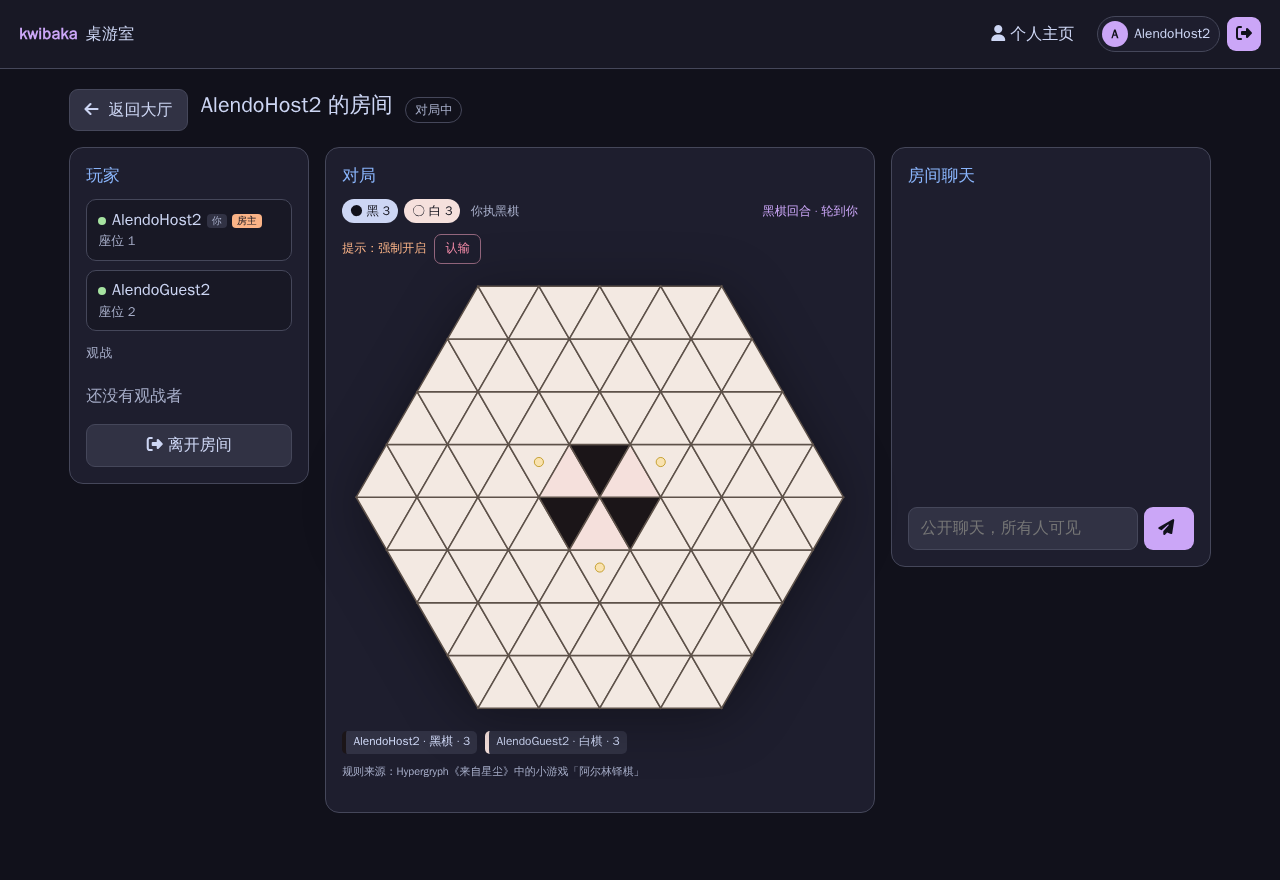
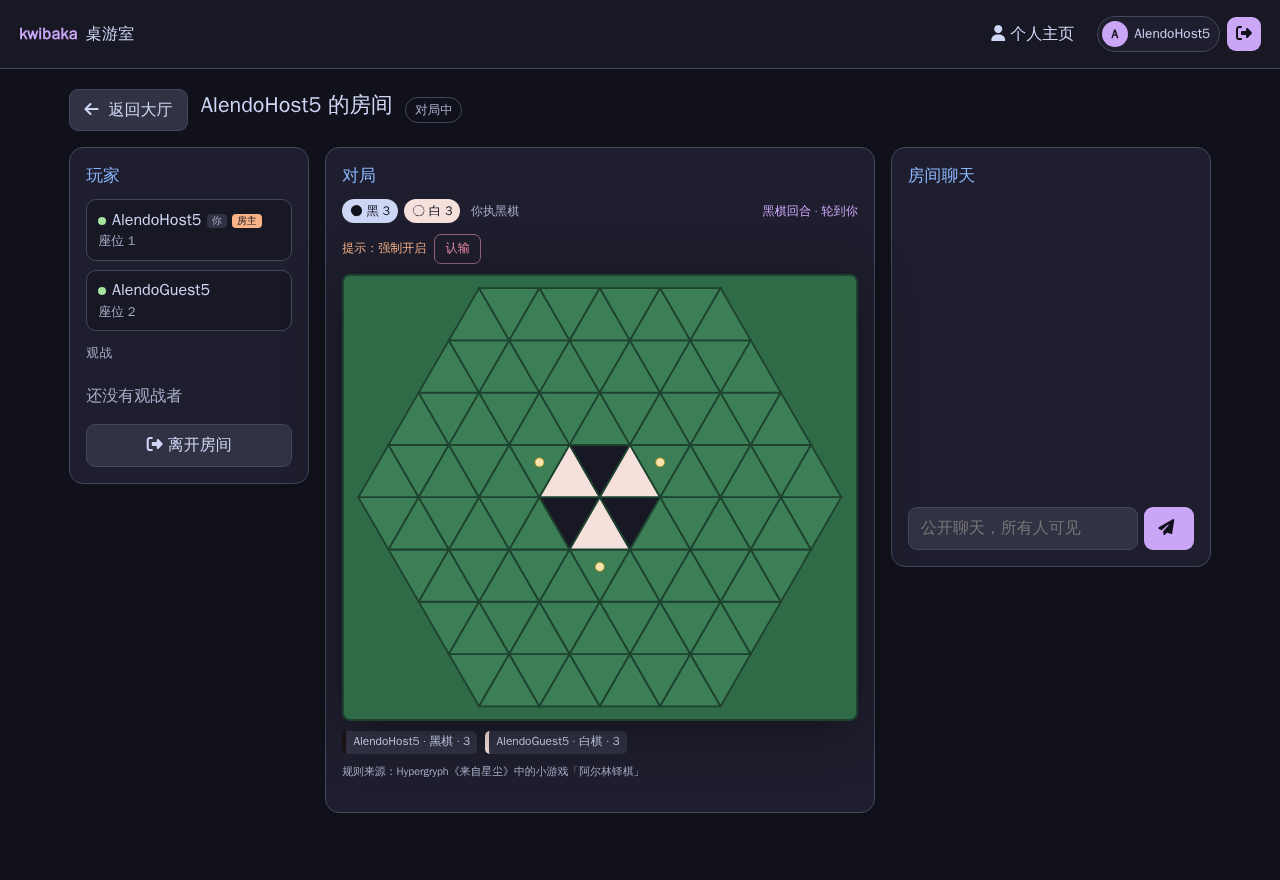
fix: correct comet setup and intersection-based gomoku board

Changed region(s): [[0.25, 0.3068, 0.6875, 0.8284]]

diff --git a/web/style.css b/web/style.css
@@ -1570,13 +1570,16 @@ button.alendo-button {
   width: min(100%, 560px);
   max-height: 62vh;
   margin: 0 auto;
+  background: #2f6b46;
+  border: 2px solid #1d4330;
+  border-radius: 8px;
   filter: drop-shadow(0 8px 28px rgb(0 0 0 / 35%));
 }
 
 .alendo-cell {
-  fill: #f3e9e2;
-  stroke: #5d5149;
-  stroke-width: 0.025;
+  fill: #3c7f56;
+  stroke: #1d4330;
+  stroke-width: 0.03;
   cursor: default;
   transition: fill 120ms ease;
 }
@@ -1586,11 +1589,11 @@ button.alendo-button {
 }
 
 .alendo-cell.playable:hover {
-  fill: #f9e2af;
+  fill: #478f62;
 }
 
 .alendo-cell.black {
-  fill: #1b1518;
+  fill: #181825;
 }
 
 .alendo-cell.white {
@@ -1698,88 +1701,83 @@ button.gomoku-button {
 }
 
 .gomoku-board {
-  --gomoku-size: 11;
-  display: grid;
-  grid-template-columns: repeat(var(--gomoku-size), minmax(0, 1fr));
+  display: block;
   width: min(100%, 560px);
-  aspect-ratio: 1;
+  max-height: 62vh;
   margin: 0 auto;
-  overflow: hidden;
   background: #d9b96e;
   border: 3px solid #8b6430;
   border-radius: 4px;
   box-shadow: 0 8px 28px rgb(0 0 0 / 35%);
 }
 
-.gomoku-board.size-11 {
-  --gomoku-size: 11;
+.gomoku-bg {
+  fill: #e4c77f;
+  stroke: #8b6430;
+  stroke-width: 0.03;
 }
 
-.gomoku-board.size-15 {
-  --gomoku-size: 15;
+.gomoku-grid {
+  stroke: #8b6430;
+  stroke-width: 0.025;
 }
 
-button.gomoku-cell {
-  position: relative;
-  display: flex;
-  align-items: center;
-  justify-content: center;
-  width: 100%;
-  height: 100%;
-  padding: 0;
-  background: #e4c77f;
-  border: 1px solid rgb(104 73 31 / 55%);
-  border-radius: 0;
+.gomoku-star {
+  fill: #6e4b23;
+  opacity: 0.85;
+}
+
+.gomoku-cell {
+  outline: none;
+}
+
+.gomoku-hit {
+  fill: transparent;
+  pointer-events: none;
+}
+
+.gomoku-cell.playable .gomoku-hit {
+  pointer-events: all;
   cursor: pointer;
 }
 
-button.gomoku-cell:hover:not(:disabled) {
-  background: #f0d997;
+.gomoku-cell.playable:hover .gomoku-hit {
+  fill: rgb(255 255 255 / 18%);
 }
 
-button.gomoku-cell:disabled {
-  cursor: default;
-  opacity: 1;
+.gomoku-cell:focus .gomoku-hit {
+  fill: rgb(249 226 175 / 22%);
+  stroke: #f9e2af;
+  stroke-width: 0.04;
 }
 
 .gomoku-stone {
-  width: 82%;
-  height: 82%;
-  border-radius: 50%;
-  box-shadow: 0 2px 4px rgb(0 0 0 / 30%);
+  pointer-events: none;
+  stroke-width: 0.02;
 }
 
 .gomoku-stone.black {
-  background: #1d1a20;
-  border: 1px solid #57505c;
+  fill: #1d1a20;
+  stroke: #57505c;
 }
 
 .gomoku-stone.white {
-  background: #fff9f2;
-  border: 1px solid #a69382;
+  fill: #fff9f2;
+  stroke: #a69382;
 }
 
-.gomoku-cell.last .gomoku-last-mark {
-  position: absolute;
-  width: 18%;
-  height: 18%;
-  border: 2px solid #e64553;
-  border-radius: 50%;
+.gomoku-win-ring {
+  fill: none;
+  stroke: #e64553;
+  stroke-width: 0.07;
+  pointer-events: none;
 }
 
-.gomoku-cell.winning {
-  background: #f9e2af;
-  box-shadow: inset 0 0 0 2px #e64553;
-}
-
-.gomoku-cell.star::after {
-  position: absolute;
-  width: 10%;
-  height: 10%;
-  background: #6e4b23;
-  border-radius: 50%;
-  content: "";
-  opacity: 0.8;
+.gomoku-last-mark {
+  fill: none;
+  stroke: #e64553;
+  stroke-width: 0.05;
+  pointer-events: none;
 }
 
 .gomoku-info {

diff --git a/tests/gomoku.test.ts b/tests/gomoku.test.ts
@@ -64,7 +64,10 @@ test('seki gomoku uses 15x15, has the comet stones and white moves first', () =>
   const board = initialBoard('seki');
   assert.equal(board.length, 225);
   assert.equal(board[7 * 15 + 7], 'black');
-  assert.equal(board[8 * 15 + 8], 'white');
+  assert.equal(board[6 * 15 + 9], 'white');
+  assert.equal(board[9 * 15 + 5], 'black');
+  assert.equal(board.filter((cell) => cell === 'black').length, 2);
+  assert.equal(board.filter((cell) => cell === 'white').length, 1);
   assert.equal(firstTurn('seki'), 'white');
   const { sent } = createMatch('seki');
   const host = lastView(sent, 'host');
@@ -72,7 +75,7 @@ test('seki gomoku uses 15x15, has the comet stones and white moves first', () =>
   assert.equal(host.you.color, 'black');
   assert.equal(guest.you.color, 'white');
   assert.equal(host.turn, 'white');
-  assert.equal(actions(sent, 'guest').filter((action) => action.type === 'place').length, 223);
+  assert.equal(actions(sent, 'guest').filter((action) => action.type === 'place').length, 222);
   assert.equal(actions(sent, 'host').filter((action) => action.type === 'place').length, 0);
 });
 

diff --git a/web/rules/gomoku.html b/web/rules/gomoku.html
@@ -20,7 +20,7 @@ code{color:#f5c2e7}
 <h2>五子棋（无禁手·彗星座子）</h2>
 <ul>
 <li>棋盘 <strong>15×15</strong>，无禁手。</li>
-<li>开局座子：黑棋在 <strong>H8</strong>，白棋在 <strong>I9</strong>；座子之后由<strong>白棋先下</strong>。</li>
+<li>开局座子：黑棋在 <strong>H8</strong>，白棋在 <strong>J7</strong>，黑棋在 <strong>F10</strong>；座子之后由<strong>白棋先下</strong>。</li>
 <li>连成五子或更多即获胜。</li>
 <li>棋盘填满仍无人获胜时，判<strong>双方均败</strong>（彗星局视为均势）。</li>
 <li>任意一方可以认输。</li>

diff --git a/docs/zh-CN/interfaces.md b/docs/zh-CN/interfaces.md
@@ -185,7 +185,7 @@ src/games/<name>/
 和 `ice-chaos`（混沌），两者指向同一个 worker。`reversi` 与 `alendo` 是双人完全信息游戏，房主执子属于房间设置，观战聊天开启。
 `alendo` 使用 Hypergryph《来自星尘》的 96 格三角棋盘，并强制显示合法落点提示。
 `gomoku` / `gomoku-seki` 共用一个引擎：11×11 无禁手（平局白胜）和 15×15
-彗星座子（黑 H8、白 I9，白先；平局双方均败）。五子棋不提供提示 UI。
+彗星座子（黑 H8、白 J7、黑 F10，白先；平局双方均败）。五子棋不提供提示 UI。
 
 ### 版本管理
 

diff --git a/docs/en/interfaces.md b/docs/en/interfaces.md
@@ -196,7 +196,7 @@ the same worker. `reversi` and `alendo` are two-player complete-information game
 color is a room setting, and `spectatorChat` is enabled. `alendo` uses a
 96-triangle board from Hypergryph's 《来自星尘》 and always shows legal-move
 hints. The `gomoku` / `gomoku-seki` catalog entries share one engine: 11×11
-free-style (draw -> white win) and 15×15 comet-seki with black H8 / white I9
+free-style (draw -> white win) and 15×15 comet-seki with black H8 / white J7 / black F10
 and white to move (draw -> both lose). Gomoku has no hint UI.
 
 ### Versioning

diff --git a/README.md b/README.md
@@ -32,7 +32,7 @@ process, and each game implementation is versioned in its own git repository.
 - 五子棋 / Gomoku:
   - 11×11 free-style, no forbidden moves, black first; a full-board draw is a
     white win.
-  - 15×15 free-style comet-seki setup (black H8, white I9), white first; a
+  - 15×15 free-style comet-seki setup (black H8, white J7, black F10), white first; a
     full-board draw is a loss for both.
   - No next-move hint UI.
 - Mock tic-tac-toe worker as the reference implementation.
